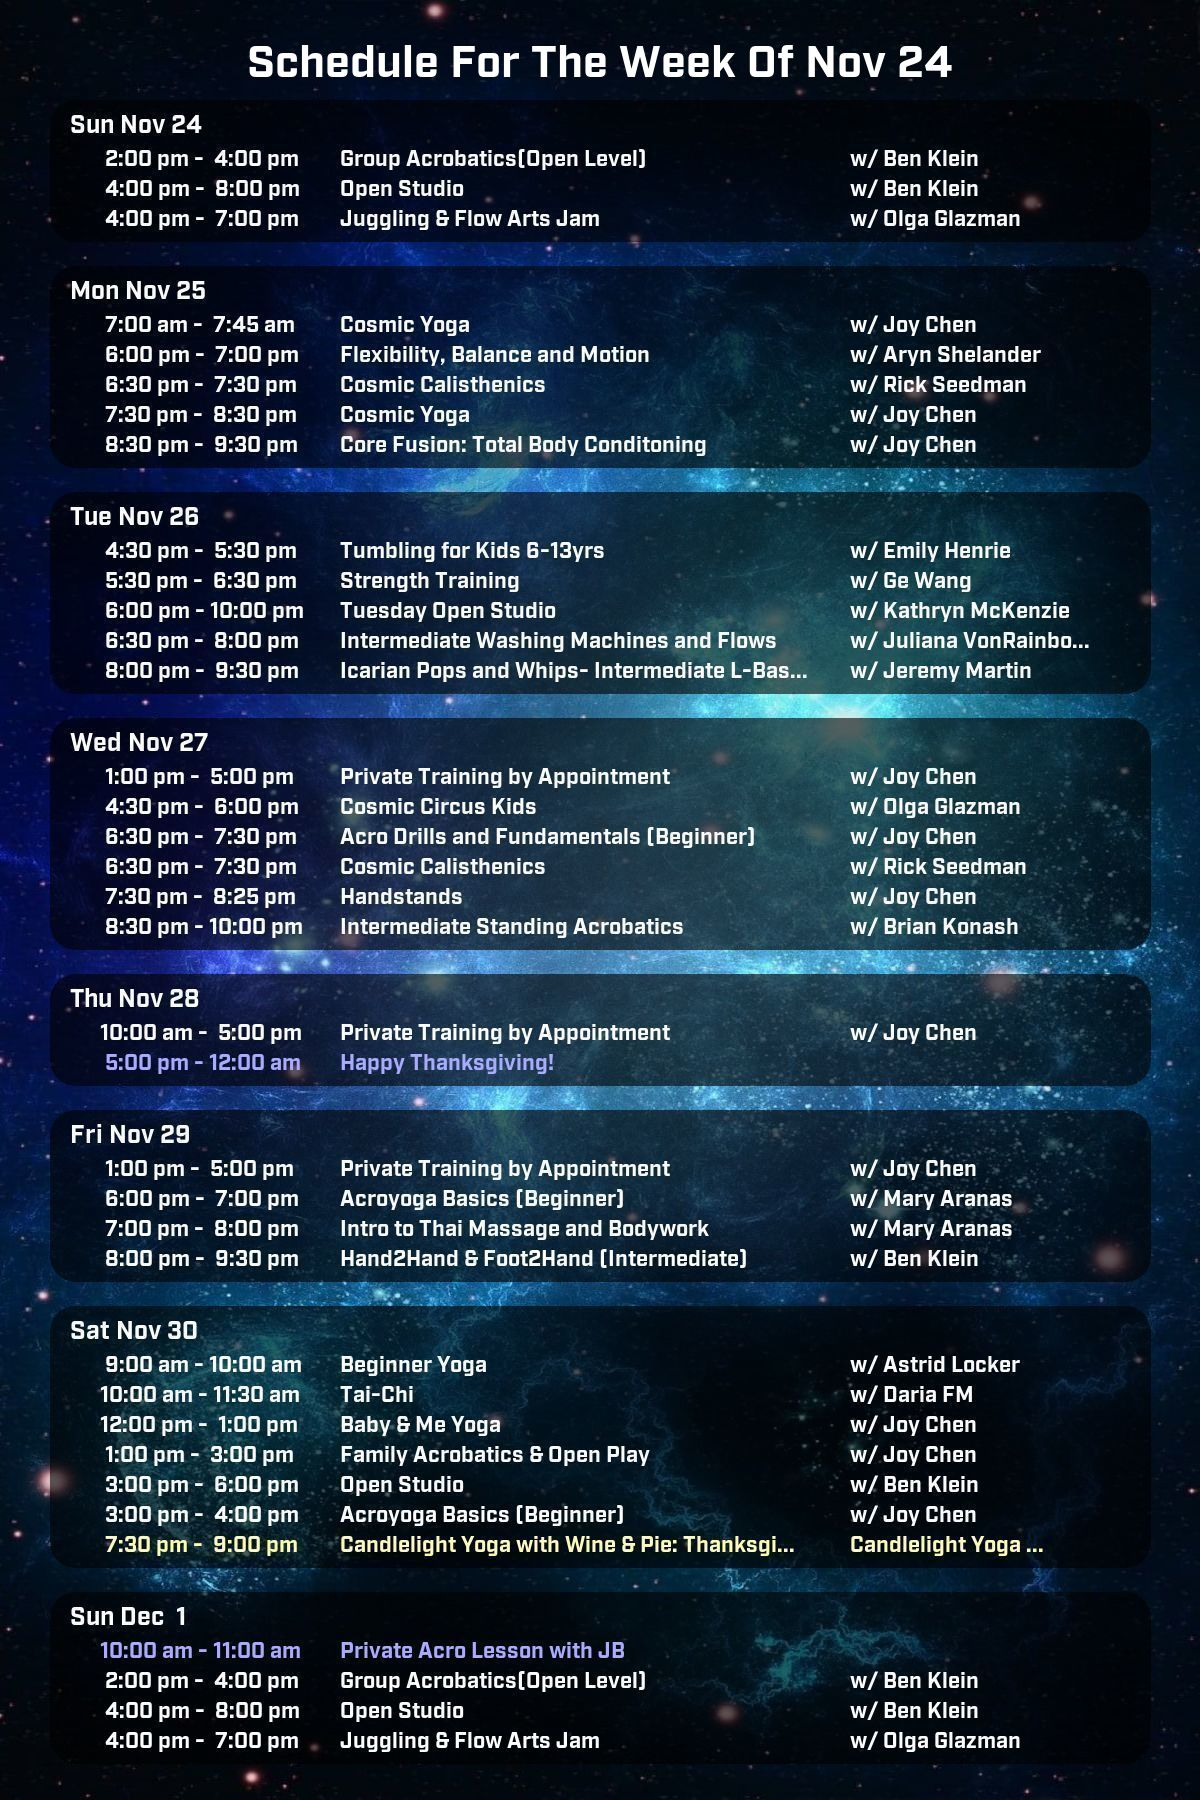
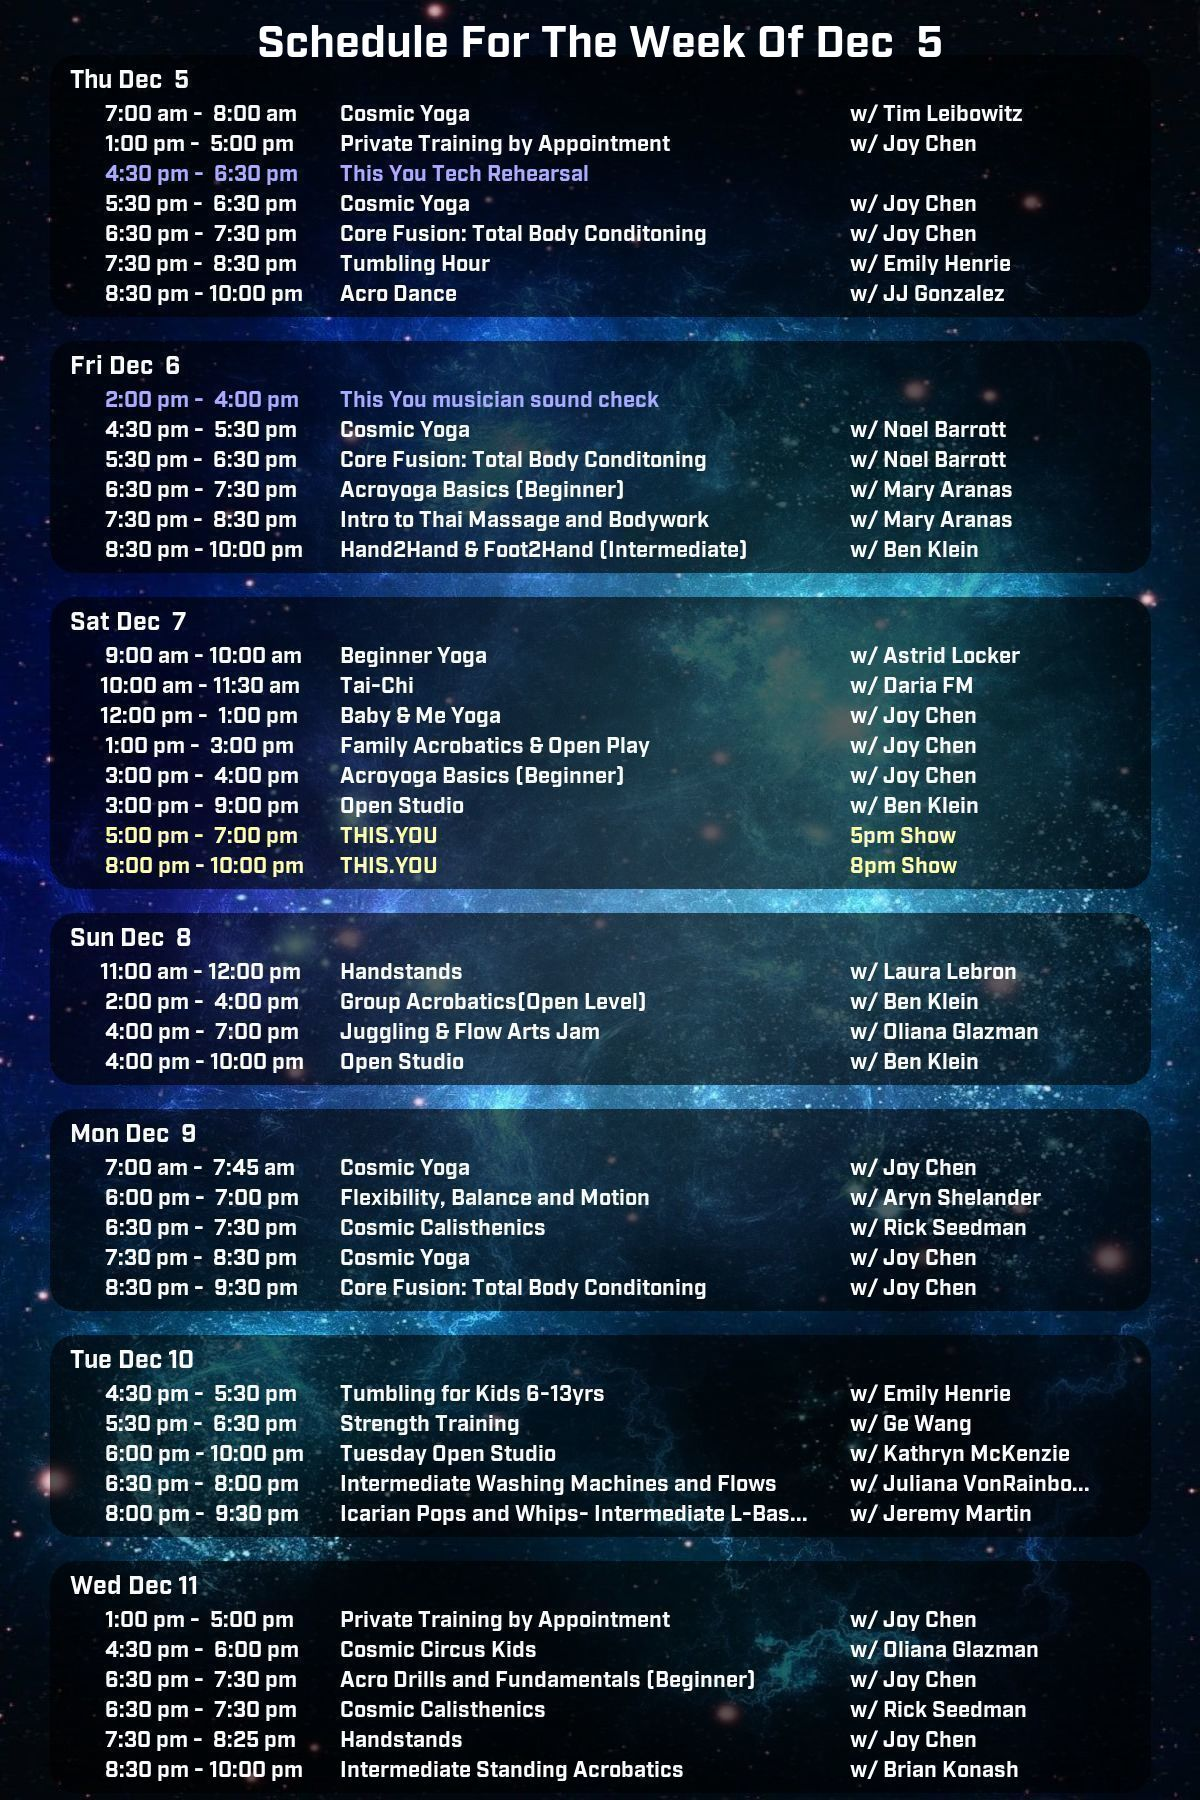
short_urls

Changed region(s): [[0.0308, 0.0, 0.9558, 0.9956]]

diff --git a/printable/lib/MiniMagickExtensions.rb b/printable/lib/MiniMagickExtensions.rb
@@ -2,11 +2,11 @@ module MiniMagickExtensions
   module Image
   	module Elements
 
-      def draw_box(x_offset, y_offset, x, y, x_radius=0, y_radius=0, gravity='None')
+      def draw_box(x_offset, y_offset, x, y, x_radius=0, y_radius=0, gravity='None', color=Values::MaskColor)
         self.combine_options do |i|
-          i.fill Values::MaskColor
+          i.fill color
           i.gravity "#{gravity}"
-          i.draw "roundRectangle #{x_offset},#{y_offset} #{x_offset + x},#{y_offset + y} #{x_radius},#{y_radius}"
+          i.draw "roundRectangle #{x_offset.to_i},#{y_offset.to_i} #{x_offset.to_i + x.to_i},#{y_offset.to_i + y.to_i} #{x_radius},#{y_radius}"
         end
       end
 
@@ -24,10 +24,10 @@ module MiniMagickExtensions
         self
       end
 
-      def draw_footer(pointsize)
+      def draw_footer(pointsize, offset=0)
         line_height = pointsize * 300 / 72
-        self.draw_box(0, height-(1.5*line_height), width, height)
-        self.draw_text("21-36 44th Road L.I.C NY 11101  |  347-670-0019  |  cosmicfitclub.com", pointsize, 0, line_height*0.25, "south")
+        self.draw_box(0, height-(1.5*line_height)-offset, width, height)
+        self.draw_text("21-36 44th Road L.I.C NY 11101  |  347-670-0019  |  cosmicfitclub.com", pointsize, 0, line_height*0.25+offset, "south")
       end
 
       def draw_text(text,pointsize=18,x=0,y=0,gravity='None')
@@ -66,41 +66,121 @@ module MiniMagickExtensions
         end
       end
 
-
       def draw_iphone_bubble(cls_id, x, y, size)
+        
         cls = ClassDef[cls_id] or return   
         img  = MiniMagick::Image.open(cls.image[:original].url)
-        mask = MiniMagick::Image.open("printable/assets/mask.png")
-        mask.resize "#{size}x#{size}!"
         img.resize "#{size}x#{size}!"
+        
         ptsize = (size * 0.05) / 300 * 72
+        lines = [cls.name] + cls.meeting_times
+        #img.footer_lines(lines,ptsize)
+
         img.draw_box(0,size.to_i*0.78,size.to_i,size.to_i*0.22)
         img.draw_text_header(cls.name,ptsize,0,size*0.12,"south")
-        img.draw_text(cls.meeting_times.join(", "),ptsize,0,size* 0.04,"south")
-        img = mask.composite(img,'png') do |c|
-          c.compose "src-in"
-          c.geometry "+0+0"
-        end
-        margin = size*0.005
+        img.draw_text(cls.meeting_times.join(", "),ptsize,0,size* 0.04,"south")      
+
+        img.mask_edges
+        
+        margin = size*0.005          # Border Around Image
         self.draw_box(x-margin, y-margin, size+margin*2, size+margin*2, size/10, size/10)
-        self.composite(img) do |c|
+        
+        result = self.composite(img) do |c|
           c.compose "Over"
           c.geometry "#{size}x#{size}+#{x}+#{y}"
         end
+        
+        self.clone_img(result)
+      end
+
+      def draw_iphone_bubble2(cls_id, x, y, width, height=nil)
+        height ||= width
+        
+        cls = ClassDef[cls_id] or return   
+        img  = MiniMagick::Image.open(cls.image[:original].url)
+        img.resize "#{width}x#{height}!"
+        
+        ptsize = (width * 0.05) / 300 * 72
+        lines = [cls.name] + cls.meeting_times_with_staff
+        img.footer_lines(lines,ptsize)
+
+        img.mask_edges
+        
+        margin = width*0.005          # Border Around Image
+        self.draw_box(x-margin, y-margin, width+margin*2, height+margin*2, width/10, height/10, 'None', Values::WhiteGlow)
+        
+        result = self.composite(img) do |c|
+          c.compose "Over"
+          c.geometry "#{width}x#{height}+#{x}+#{y}"
+        end
+        
+        self.clone_img(result)
+      end
+
+      def overlay(img, width, height, x, y)
+        result = self.composite(img) do |c|
+          c.compose "Over"
+          c.geometry "#{width}x#{height}+#{x}+#{y}"
+        end
+        self.clone_img(result)
+      end
+
+      def to_bubble(lines, ptsize=nil)
+        ptsize ||= (self.dimensions[0] * 0.05) / 300 * 72
+        self.footer_lines(lines,ptsize)
+        self.mask_edges
+      end
+
+      def bubble_shadow(width,height,x,y,margin=nil,radius=nil,color=Values::WhiteGlow)
+        margin ||= width*0.05
+        radius ||= width/10
+        self.draw_box(x-margin, y-margin, width+margin*2, height+margin*2, radius, radius, 'None', Values::WhiteGlow)
+      end
+
+      def footer_lines(lines, ptsize=15, offset=0)
+        ptsize = ptsize + 0.5
+        line_height  = (ptsize/72*300)
+        line_height2 = ((ptsize)/72*300)
+        y_offset = (lines.count-1) * (line_height2*1.2) + (line_height*1.4) + offset
+
+        self.draw_box(0,self.dimensions[1]-y_offset,self.dimensions[0],self.dimensions[1], 0, 0, 'None', Values::MaskColor2 )
+        y_offset = y_offset - 10 
+        self.draw_text_header(lines[0],ptsize,0,y_offset-(line_height*1.2),"south")
+        y_offset = y_offset - (line_height*1.4)
+
+        ptsize = ptsize
+
+        lines.drop(1).each_with_index do |line, i|
+          self.draw_text(line,ptsize,0,y_offset-line_height2,"south")
+          y_offset = y_offset - (line_height2 * 1.2)
+        end
+      end
+
+      def mask_edges
+        mask = MiniMagick::Image.open("printable/assets/mask.png")
+        mask.resize "#{self.dimensions[0]}x#{self.dimensions[1]}!"
+        result = mask.composite(self,'png') do |c|
+          c.compose "src-in"
+          c.geometry "+0+0"
+        end
+        self.clone_img(result)
       end
 
     end
 
     module Values
-      MaskColor = "\#00000099"
-      TextColor = "\#FFFFFFFF"
+      MaskColor   = "\#00000099"
+      MaskColor2  = "\#000000AA"
+      TextColor   = "\#FFFFFFFF"
+      WhiteGlow   = "\#FFFFFF66"
     end
 
     module Loading
 
       def clone_img(other)
         @path = other.path
-        @info.clear        
+        @info.clear
+        self       
       end
 
       def save(filename)

diff --git a/printable/SchedulePoster4x6.rb b/printable/SchedulePoster4x6.rb
@@ -8,6 +8,7 @@ module SchedulePoster4x6
     @@header_pointsize = 25
     @@body_pointsize   = 22
     @@box_width        = 1100
+    @@top_margin       = 10
   end
  
   def SchedulePoster4x6::generate(starttime=Date.tomorrow, num_days=7, high_contrast=false )
@@ -19,22 +20,22 @@ module SchedulePoster4x6
     @@schedule      = Scheduling::get_all_sorted_by_days(starttime.to_time, (starttime >> num_days + 1).to_time)
     @@image = MiniMagick::Image.open("printable/assets/4x6_bg.jpg")
     
-    offset = SchedulePoster4x6::build_day(0,50,100)
-    offset = SchedulePoster4x6::build_day(1,50,offset + 25) if num_days > 1
-    offset = SchedulePoster4x6::build_day(2,50,offset + 25) if num_days > 2
-    offset = SchedulePoster4x6::build_day(3,50,offset + 25) if num_days > 3
-    offset = SchedulePoster4x6::build_day(4,50,offset + 25) if num_days > 4
-    offset = SchedulePoster4x6::build_day(5,50,offset + 25) if num_days > 5
-    offset = SchedulePoster4x6::build_day(6,50,offset + 25) if num_days > 6
-    offset = SchedulePoster4x6::build_day(7,50,offset + 25) if num_days > 7
+    offset = SchedulePoster4x6::build_day(0,50,@@top_margin)
+    offset = SchedulePoster4x6::build_day(1,50,offset + 20) if num_days > 1
+    offset = SchedulePoster4x6::build_day(2,50,offset + 20) if num_days > 2
+    offset = SchedulePoster4x6::build_day(3,50,offset + 20) if num_days > 3
+    offset = SchedulePoster4x6::build_day(4,50,offset + 20) if num_days > 4
+    offset = SchedulePoster4x6::build_day(5,50,offset + 20) if num_days > 5
+    offset = SchedulePoster4x6::build_day(6,50,offset + 20) if num_days > 6
+    offset = SchedulePoster4x6::build_day(7,50,offset + 20) if num_days > 7
 
-    @@image.combine_options do |i|
-      i.fill "\#FFFFFFFF"
-      i.pointsize 45
-      i.font "shared/fonts/webfonts/329F99_3_0.ttf"
-      i.gravity "North"
-      i.draw "text 0,40 \"Schedule For The Week Of #{starttime.strftime('%b %e')}\""
-    end
+    #@@image.combine_options do |i|
+    #  i.fill "\#FFFFFFFF"
+    #  i.pointsize 45
+    #  i.font "shared/fonts/webfonts/329F99_3_0.ttf"
+    #  i.gravity "North"
+    #  i.draw "text 0,20 \"Schedule For The Week Of #{starttime.strftime('%b %e')}\""
+    #end
 
     @@image
 

diff --git a/printable/InstagramStory.rb b/printable/InstagramStory.rb
@@ -16,24 +16,28 @@ module InstagramStory
 
     InstagramStory::set_constants
 
-    p "Generating Event Poster"
-
     @@lines = lines
-    @@event = Event[event_id]
-    @@image = MiniMagick::Image.open @@event.image[:original].url
-    @@image.resize "2550x2550!"
+    @@image = MiniMagick::Image.open "printable/assets/1080x1920_bg.jpg"
 
-    @@image.draw_logo(1150,100,1300,nil)
+    @@event  = Event[event_id]
+    @@bubble = MiniMagick::Image.open @@event.image[:original].url
+    @@bubble.to_bubble(lines)
 
-    box_height = ( lines.count * @@lineheight ) + @@lineheight
-    box_start = 2550 - box_height
-    @@image.draw_box(@@lines_xmargin, box_start - @@lines_bottom_margin, @@image.width-@@lines_xmargin*2, @@image.width - box_start) unless @@lines.count == 0
+    @@image.draw_logo(50,250,980,nil)
 
-    InstagramStory::draw_lines
+    @@image.bubble_shadow(980,980,50,650,5)
+    @@image.overlay(@@bubble,980,980,50,650)
 
-    @@image.draw_footer(19)
+    @@image.draw_highlight_text("https://cosmicfitclub.com/unity",pointsize,x,y,gravity)
+    @@image.footer_lines(["https://cosmicfitclub.com/"])
 
-    p "Finished Generating Event Poster"
+    #box_height = ( lines.count * @@lineheight ) + @@lineheight
+    #box_start = 2550 - box_height
+    #@@image.draw_box(@@lines_xmargin, box_start - @@lines_bottom_margin, @@image.width-@@lines_xmargin*2, @@image.width - box_start) unless @@lines.count == 0
+    
+    #InstagramStory::draw_lines
+
+    @@image.draw_footer(8,200)
 
     @@image
 

diff --git a/printable/SchedulePoster4x6_front.rb b/printable/SchedulePoster4x6_front.rb
@@ -19,25 +19,30 @@ module SchedulePoster4x6_front
 
       img = MiniMagick::Image.open cls.image[:medium].url
       img.resize "500x500!"
+      
+      lines = [cls.name]
+      cls.meeting_times.each_slice(2) { |a,b| lines << ( b.nil? ? a : a +", " + b ) }
 
-      img.combine_options do |i|
-        i.fill "\#00000099"
-        i.draw "rectangle 0,400 500,500"
-      end
+      img.to_bubble(lines)
 
-      img.combine_options do |i|
-        i.fill "\#FFFFFFFF"
-        i.pointsize 27
-        i.font "shared/fonts/webfonts/329F99_3_0.ttf"
-        i.gravity "South"
-        i.draw "text 0,55 \"#{cls.name}\""
-        i.draw "text 0,15 \"#{cls.meeting_times.join(", ")}\""
-      end
+      #img.combine_options do |i|
+      #  i.fill "\#00000099"
+      #  i.draw "rectangle 0,400 500,500"
+      #end
 
-      img = @@mask.composite(img,'png') do |c|
-        c.compose "src-in"
-        c.geometry "+0+0"
-      end
+      #img.combine_options do |i|
+      #  i.fill "\#FFFFFFFF"
+      #  i.pointsize 27
+      #  i.font "shared/fonts/webfonts/329F99_3_0.ttf"
+      #  i.gravity "South"
+      #  i.draw "text 0,55 \"#{cls.name}\""
+      #  i.draw "text 0,15 \"#{cls.meeting_times.join(", ")}\""
+      #end
+
+      #img = @@mask.composite(img,'png') do |c|
+      #  c.compose "src-in"
+      #  c.geometry "+0+0"
+      #end
 
       geo = /(\d+)x(\d+)\+(\d+)\+(\d+)/.match(@@img_geometrys[idx])
       @@image.combine_options do |i|

diff --git a/printable/SchedulePoster4x6_class.rb b/printable/SchedulePoster4x6_class.rb
@@ -1,0 +1,28 @@
+require 'date'
+require 'mini_magick'
+
+module SchedulePoster4x6_class
+ 
+  def SchedulePoster4x6_class::generate(img,lines)
+
+    @@image = MiniMagick::Image.open("printable/assets/4x6_bg.jpg") # 1130x1730
+    
+    @@image.draw_logo(75,50,1050,nil)
+
+    #@@image.draw_iphone_bubble2(classdef_id, 75, 460, 1050, 1050*1.1)
+
+    @@bubble = MiniMagick::Image.open("printable/assets/#{img}")
+    @@bubble.to_bubble(lines)
+
+    margin = 1050*0.005          # Border Around Image
+    @@image.draw_box(75-margin, 460-margin, 1050+margin*2, 1050*1.1+margin*2, 1050/10, 1050*1.1/10, 'None', "\#FFFFFF66")
+    
+    @@image.overlay(@@bubble,1050,1050*1.1,75,460)
+
+    @@image.draw_highlight_text("First Class Free! Come In Today!",18,0,75,"South")
+
+    @@image.draw_footer(9)
+
+  end
+  
+end

diff --git a/models/Classes/ClassdefSchedule.rb b/models/Classes/ClassdefSchedule.rb
@@ -94,9 +94,16 @@ class ClassdefSchedule < Sequel::Model
 
   ###################################### VIEWS #######################################
 
+  # ie: Mon @ 12:30 pm 
   def simple_meeting_time_description
     match = /Weekly on (\S+?)(nes|rs|s)*+(ur)?days/.match(rrule_english) or return ""
-    match[1] + " @ " + start_time_12hr_short
+    match[1] + " @ " + start_time_12hr_short    
+  end
+  
+  # ie: Mon @  5:00 pm w/ Tim Leibowitz
+  def simple_meeting_time_description_with_staff
+    match = /Weekly on (\S+?)(nes|rs|s)*+(ur)?days/.match(rrule_english) or return ""
+    match[1] + " @ " + start_time_12hr_short + "     /w   " + self.teachers[0].name.ljust(20)
   end
 
   def description_line

diff --git a/printable/SchedulePoster.rb b/printable/SchedulePoster.rb
@@ -22,7 +22,7 @@ module SchedulePoster
     @@image.rotate "90"
     @@image.resize "2550x3300!"
     
-    offset = SchedulePoster::build_day(0,50,150)
+    offset = SchedulePoster::build_day(0,50,25)
     offset = SchedulePoster::build_day(1,50,offset + 25)
     offset = SchedulePoster::build_day(2,50,offset + 25)
     offset = SchedulePoster::build_day(3,50,offset + 25)

diff --git a/site/CFC.rb b/site/CFC.rb
@@ -61,6 +61,11 @@ class CFC < Sinatra::Base
 
   get( '/robots.txt') { "User-agent: * \r\nDisallow:" }
 
+  get( '/:tag' ) do
+    url = ShortUrl.where(:short_path => params[:tag])[0] or pass
+    redirect url.long_path
+  end
+
   error do
     Slack.err( 'Site Error', env['sinatra.error'] )
     'An Error Occurred.'

diff --git a/models/Classes/ClassDef.rb b/models/Classes/ClassDef.rb
@@ -147,6 +147,10 @@ class ClassDef < Sequel::Model
     self.schedules.map(&:simple_meeting_time_description)
   end
 
+  def meeting_times_with_staff
+    self.schedules.map(&:simple_meeting_time_description_with_staff)
+  end
+
   ########################## VIEWS ##############################
 
 end
